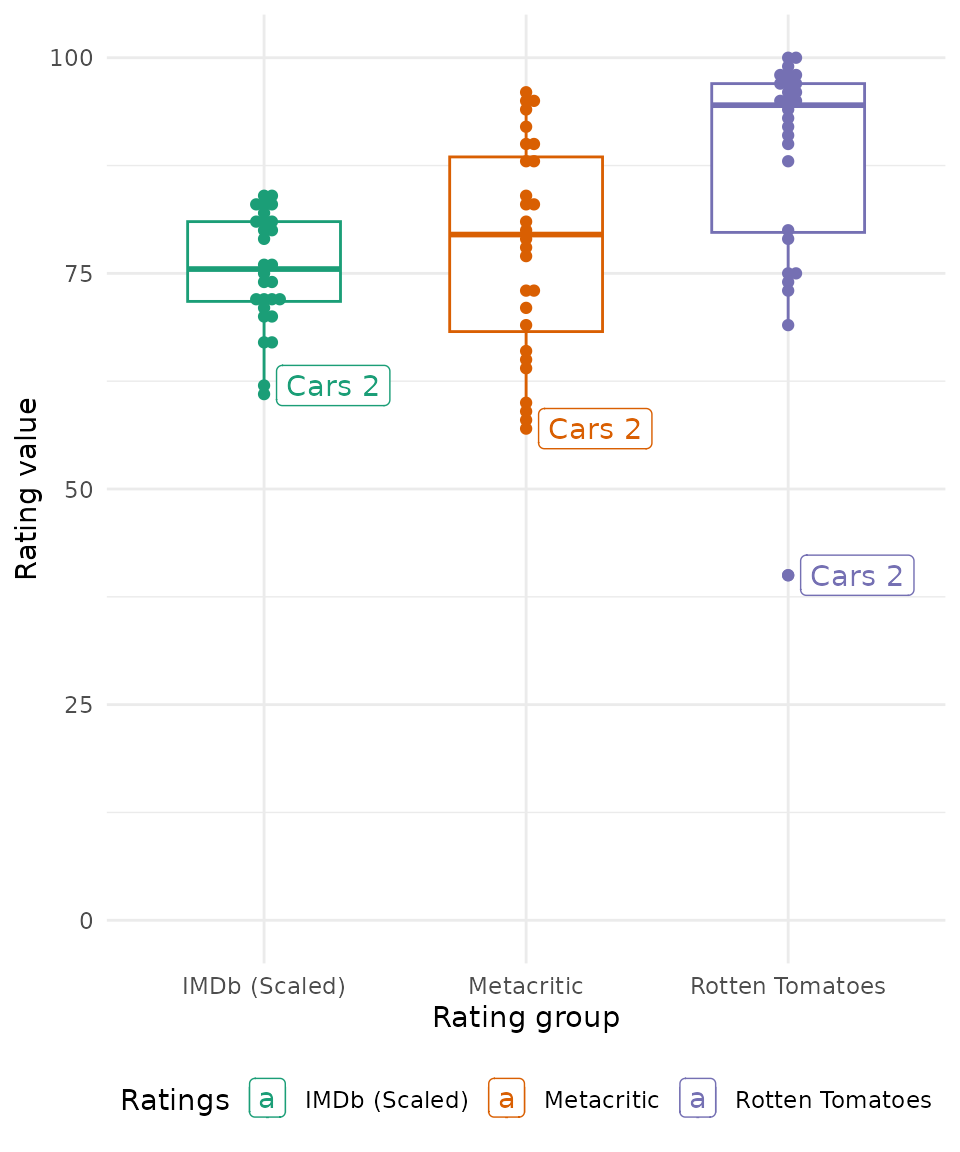
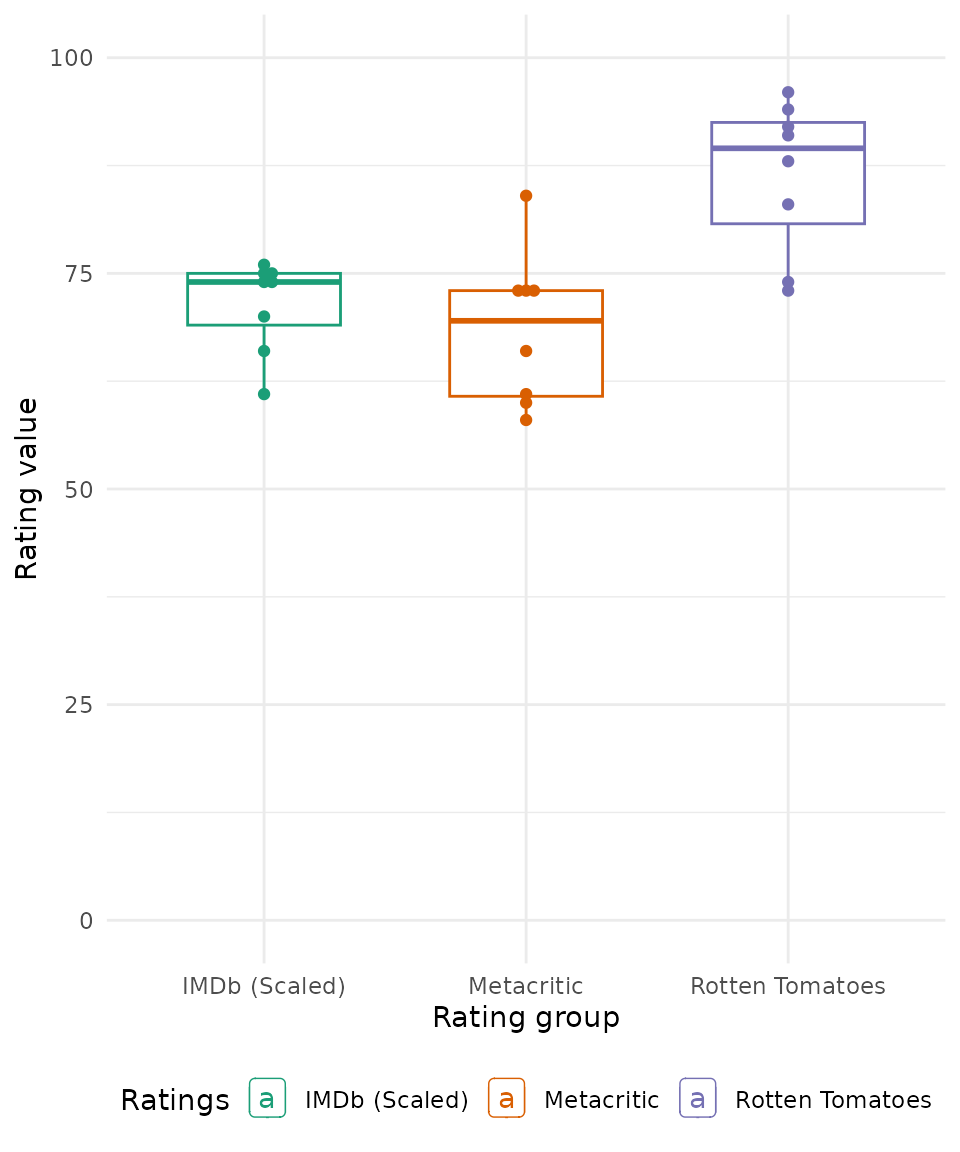
Deploying to gh-pages from @ erictleung/pixarfilms@0bd7c4084bb4fcffd38ed1bbc696253856edcd91 🚀

diff --git a/reference/public_response.html b/reference/public_response.html
@@ -1,5 +1,5 @@
 <!DOCTYPE html>
-<!-- Generated by pkgdown: do not edit by hand --><html lang="en-US"><head><meta http-equiv="Content-Type" content="text/html; charset=UTF-8"><meta charset="utf-8"><meta http-equiv="X-UA-Compatible" content="IE=edge"><meta name="viewport" content="width=device-width, initial-scale=1, shrink-to-fit=no"><title>Critical and public response — public_response • pixarfilms</title><script src="../deps/jquery-3.6.0/jquery-3.6.0.min.js"></script><meta name="viewport" content="width=device-width, initial-scale=1, shrink-to-fit=no"><link href="../deps/bootstrap-5.3.8/bootstrap.min.css" rel="stylesheet"><script src="../deps/bootstrap-5.3.8/bootstrap.bundle.min.js"></script><link href="../deps/font-awesome-6.5.2/css/all.min.css" rel="stylesheet"><link href="../deps/font-awesome-6.5.2/css/v4-shims.min.css" rel="stylesheet"><script src="../deps/headroom-0.11.0/headroom.min.js"></script><script src="../deps/headroom-0.11.0/jQuery.headroom.min.js"></script><script src="../deps/bootstrap-toc-1.0.1/bootstrap-toc.min.js"></script><script src="../deps/clipboard.js-2.0.11/clipboard.min.js"></script><script src="../deps/search-1.0.0/autocomplete.jquery.min.js"></script><script src="../deps/search-1.0.0/fuse.min.js"></script><script src="../deps/search-1.0.0/mark.min.js"></script><!-- pkgdown --><script src="../pkgdown.js"></script><meta property="og:title" content="Critical and public response — public_response"><meta name="description" content="A data set with scores of critical and public response."><meta property="og:description" content="A data set with scores of critical and public response."><meta property="og:image" content="https://erictleung.com/pixarfilms, https://github.com/erictleung/pixarfilms/logo.png"><!-- Global site tag (gtag.js) - Google Analytics --><script async src="https://www.googletagmanager.com/gtag/js?id=UA-66130577-1"></script><script>
+<!-- Generated by pkgdown: do not edit by hand --><html lang="en-US"><head><meta http-equiv="Content-Type" content="text/html; charset=UTF-8"><meta charset="utf-8"><meta http-equiv="X-UA-Compatible" content="IE=edge"><meta name="viewport" content="width=device-width, initial-scale=1, shrink-to-fit=no"><title>Critical and public response — public_response • pixarfilms</title><script src="../deps/jquery-3.6.0/jquery-3.6.0.min.js"></script><meta name="viewport" content="width=device-width, initial-scale=1, shrink-to-fit=no"><link href="../deps/bootstrap-5.3.8/bootstrap.min.css" rel="stylesheet"><script src="../deps/bootstrap-5.3.8/bootstrap.bundle.min.js"></script><link href="../deps/font-awesome-6.5.2/css/all.min.css" rel="stylesheet"><link href="../deps/font-awesome-6.5.2/css/v4-shims.min.css" rel="stylesheet"><script src="../deps/headroom-0.11.0/headroom.min.js"></script><script src="../deps/headroom-0.11.0/jQuery.headroom.min.js"></script><script src="../deps/bootstrap-toc-1.0.1/bootstrap-toc.min.js"></script><script src="../deps/clipboard.js-2.0.11/clipboard.min.js"></script><script src="../deps/search-1.0.0/autocomplete.jquery.min.js"></script><script src="../deps/search-1.0.0/fuse.min.js"></script><script src="../deps/search-1.0.0/mark.min.js"></script><!-- pkgdown --><script src="../pkgdown.js"></script><meta property="og:title" content="Critical and public response — public_response"><meta property="og:image" content="https://erictleung.com/pixarfilms, https://github.com/erictleung/pixarfilms/logo.png"><!-- Global site tag (gtag.js) - Google Analytics --><script async src="https://www.googletagmanager.com/gtag/js?id=UA-66130577-1"></script><script>
   window.dataLayer = window.dataLayer || [];
   function gtag(){dataLayer.push(arguments);}
   gtag('js', new Date());
@@ -47,17 +47,12 @@
     </div>
 
     <div class="ref-description section level2">
-    <p>A data set with scores of critical and public response.</p>
     </div>
 
-    <div class="section level2">
-    <h2 id="ref-usage">Usage<a class="anchor" aria-label="anchor" href="#ref-usage"></a></h2>
-    <div class="sourceCode"><pre class="sourceCode r"><code><span><span class="va">public_response</span></span></code></pre></div>
-    </div>
 
     <div class="section level2">
     <h2 id="format">Format<a class="anchor" aria-label="anchor" href="#format"></a></h2>
-    <p>A data frame with 23 rows and 5 variables:</p><dl><dt>film</dt>
+    <p>A data frame with 31 rows and 17 columns:</p><dl><dt>film</dt>
 <dd><p>name of film</p></dd>
 
 <dt>rotten_tomatoes_score</dt>
@@ -87,36 +82,44 @@ reviews; scored out of 100</p></dd>
 <dt>imdb_counts</dt>
 <dd><p>number of critics contributing to IMDb score</p></dd>
 
+<dt>rotten_tomatoes_score_top_critics</dt>
+<dd><p>score for only top critics from
+Rotten Tomatoes; scored out of 100</p></dd>
 
-</dl></div>
-    <div class="section level2">
-    <h2 id="source">Source<a class="anchor" aria-label="anchor" href="#source"></a></h2>
-    <p><a href="https://en.wikipedia.org/wiki/List_of_Pixar_films" class="external-link">https://en.wikipedia.org/wiki/List_of_Pixar_films</a></p>
+<dt>rotten_tomatoes_score_top_critics_votes</dt>
+<dd><p>number of top critics
+contributing to Rotten Tomatoes score</p></dd>
+
+<dt>rotten_tomatoes_popcorn_meter_score</dt>
+<dd><p>percentage of users who rated
+rotten_tomatoes_popcorn_meter_votesnumber of users contributing to
+Rotten Tomatoes'
+rotten_tomatoes_popcorn_meter_verifiedpercentage of users who made
+a verified movie ticket purchase rating this 3.5 stars or higher
+rotten_tomatoes_popcorn_meter_votesnumber of users contributing to
+Rotten Tomatoes' Popcorn Meter
+letterboxd_ratingscore from Letterboxd where scores are weighted
+average of reviews; scored out of 5
+letterboxd_countsnumber of users contributing to Letterboxd score
+letterboxd_fansnumber of users this film as one of their four
+favorites on Letterboxd</p></dd>
+
+
+</dl><p><a href="https://en.wikipedia.org/wiki/List_of_Pixar_films" class="external-link">https://en.wikipedia.org/wiki/List_of_Pixar_films</a>
+
+
+public_response
+
+
+A data set with scores of critical and public response.
+
+
+public_response
+
+datasets</p>
     </div>
 
-    <div class="section level2">
-    <h2 id="ref-examples">Examples<a class="anchor" aria-label="anchor" href="#ref-examples"></a></h2>
-    <div class="sourceCode"><pre class="sourceCode r"><code><span class="r-in"><span><span class="va">public_response</span></span></span>
-<span class="r-out co"><span class="r-pr">#&gt;</span> <span style="color: #949494;"># A tibble: 28 × 8</span></span>
-<span class="r-out co"><span class="r-pr">#&gt;</span>    film            rotten_tomatoes_score rotten_tomatoes_counts metacritic_score</span>
-<span class="r-out co"><span class="r-pr">#&gt;</span>    <span style="color: #949494; font-style: italic;">&lt;chr&gt;</span>                           <span style="color: #949494; font-style: italic;">&lt;dbl&gt;</span>                  <span style="color: #949494; font-style: italic;">&lt;dbl&gt;</span>            <span style="color: #949494; font-style: italic;">&lt;dbl&gt;</span></span>
-<span class="r-out co"><span class="r-pr">#&gt;</span> <span style="color: #BCBCBC;"> 1</span> Toy Story                         100                     96               95</span>
-<span class="r-out co"><span class="r-pr">#&gt;</span> <span style="color: #BCBCBC;"> 2</span> A Bug's Life                       92                     91               78</span>
-<span class="r-out co"><span class="r-pr">#&gt;</span> <span style="color: #BCBCBC;"> 3</span> Toy Story 2                       100                    172               88</span>
-<span class="r-out co"><span class="r-pr">#&gt;</span> <span style="color: #BCBCBC;"> 4</span> Monsters, Inc.                     96                    199               79</span>
-<span class="r-out co"><span class="r-pr">#&gt;</span> <span style="color: #BCBCBC;"> 5</span> Finding Nemo                       99                    270               90</span>
-<span class="r-out co"><span class="r-pr">#&gt;</span> <span style="color: #BCBCBC;"> 6</span> The Incredibles                    97                    250               90</span>
-<span class="r-out co"><span class="r-pr">#&gt;</span> <span style="color: #BCBCBC;"> 7</span> Cars                               75                    204               73</span>
-<span class="r-out co"><span class="r-pr">#&gt;</span> <span style="color: #BCBCBC;"> 8</span> Ratatouille                        96                    253               96</span>
-<span class="r-out co"><span class="r-pr">#&gt;</span> <span style="color: #BCBCBC;"> 9</span> WALL-E                             95                    261               95</span>
-<span class="r-out co"><span class="r-pr">#&gt;</span> <span style="color: #BCBCBC;">10</span> Up                                 98                    297               88</span>
-<span class="r-out co"><span class="r-pr">#&gt;</span> <span style="color: #949494;"># ℹ 18 more rows</span></span>
-<span class="r-out co"><span class="r-pr">#&gt;</span> <span style="color: #949494;"># ℹ 4 more variables: metacritic_counts &lt;dbl&gt;, cinema_score &lt;chr&gt;,</span></span>
-<span class="r-out co"><span class="r-pr">#&gt;</span> <span style="color: #949494;">#   imdb_score &lt;dbl&gt;, imdb_counts &lt;dbl&gt;</span></span>
-</code></pre></div>
-    </div>
-  </main><aside class="col-md-3"><nav id="toc" aria-label="Table of contents"><h2>On this page</h2>
-    </nav></aside></div>
+  </main></div>
 
 
     <footer><div class="pkgdown-footer-left">

diff --git a/articles/multidimensional_success_of_pixar_films.html b/articles/multidimensional_success_of_pixar_films.html
@@ -121,7 +121,7 @@ found <a href="https://thelittledataset.com/2015/06/30/the-multidimensional-succ
 <span>  <span class="fu"><a href="https://dplyr.tidyverse.org/reference/mutate-joins.html" class="external-link">left_join</a></span><span class="op">(</span><span class="va">academy</span><span class="op">)</span> <span class="co"># %&gt;% </span></span>
 <span><span class="co">#&gt; Joining with `by = join_by(film)`</span></span>
 <span><span class="co">#&gt; Joining with `by = join_by(film)`</span></span>
-<span><span class="co">#&gt; <span style="color: #949494;"># A tibble: 88 × 15</span></span></span>
+<span><span class="co">#&gt; <span style="color: #949494;"># A tibble: 88 × 24</span></span></span>
 <span><span class="co">#&gt;    number film     release_date run_time film_rating plot  rotten_tomatoes_score</span></span>
 <span><span class="co">#&gt;     <span style="color: #949494; font-style: italic;">&lt;int&gt;</span> <span style="color: #949494; font-style: italic;">&lt;chr&gt;</span>    <span style="color: #949494; font-style: italic;">&lt;date&gt;</span>          <span style="color: #949494; font-style: italic;">&lt;dbl&gt;</span> <span style="color: #949494; font-style: italic;">&lt;chr&gt;</span>       <span style="color: #949494; font-style: italic;">&lt;chr&gt;</span>                 <span style="color: #949494; font-style: italic;">&lt;dbl&gt;</span></span></span>
 <span><span class="co">#&gt; <span style="color: #BCBCBC;"> 1</span>      1 Toy Sto… 1995-11-22         81 G           <span style="color: #949494;">"</span>A c…                   100</span></span>
@@ -135,9 +135,12 @@ found <a href="https://thelittledataset.com/2015/06/30/the-multidimensional-succ
 <span><span class="co">#&gt; <span style="color: #BCBCBC;"> 9</span>      2 A Bug's… 1998-11-25         95 G           <span style="color: #949494;">"</span>A m…                    92</span></span>
 <span><span class="co">#&gt; <span style="color: #BCBCBC;">10</span>      3 Toy Sto… 1999-11-24         92 G           <span style="color: #949494;">"</span>Whe…                   100</span></span>
 <span><span class="co">#&gt; <span style="color: #949494;"># ℹ 78 more rows</span></span></span>
-<span><span class="co">#&gt; <span style="color: #949494;"># ℹ 8 more variables: rotten_tomatoes_counts &lt;dbl&gt;, metacritic_score &lt;dbl&gt;,</span></span></span>
+<span><span class="co">#&gt; <span style="color: #949494;"># ℹ 17 more variables: rotten_tomatoes_counts &lt;dbl&gt;, metacritic_score &lt;dbl&gt;,</span></span></span>
 <span><span class="co">#&gt; <span style="color: #949494;">#   metacritic_counts &lt;dbl&gt;, cinema_score &lt;chr&gt;, imdb_score &lt;dbl&gt;,</span></span></span>
-<span><span class="co">#&gt; <span style="color: #949494;">#   imdb_counts &lt;dbl&gt;, award_type &lt;chr&gt;, status &lt;chr&gt;</span></span></span>
+<span><span class="co">#&gt; <span style="color: #949494;">#   imdb_counts &lt;dbl&gt;, rotten_tomatoes_score_top_critics &lt;dbl&gt;,</span></span></span>
+<span><span class="co">#&gt; <span style="color: #949494;">#   rotten_tomatoes_score_top_critics_votes &lt;dbl&gt;,</span></span></span>
+<span><span class="co">#&gt; <span style="color: #949494;">#   rotten_tomatoes_popcorn_meter_score &lt;dbl&gt;,</span></span></span>
+<span><span class="co">#&gt; <span style="color: #949494;">#   rotten_tomatoes_popcorn_meter_votes &lt;dbl&gt;, …</span></span></span>
 <span>  <span class="co"># mutate(year = year(release_date)</span></span>
 <span>  <span class="co">#        # best = case_when(</span></span>
 <span>  <span class="co">#          </span></span>

diff --git a/articles/use_dm.html b/articles/use_dm.html
@@ -157,7 +157,7 @@ interconnected tables together.</p>
 <code class="sourceCode R"><span><span class="va">dm</span></span>
 <span><span class="co">#&gt; <span style="color: #FFAFFF;">──</span> <span style="color: #FFAFFF;">Metadata</span> <span style="color: #FFAFFF;">────────────────────────────────────────────────────────────────────</span></span></span>
 <span><span class="co">#&gt; Tables: `pixar_films`, `pixar_people`, `academy`, `box_office`, `genres`, `public_response`</span></span>
-<span><span class="co">#&gt; Columns: 28</span></span>
+<span><span class="co">#&gt; Columns: 37</span></span>
 <span><span class="co">#&gt; Primary keys: 5</span></span>
 <span><span class="co">#&gt; Foreign keys: 5</span></span></code></pre></div>
 <div class="sourceCode" id="cb4"><pre class="downlit sourceCode r">
@@ -167,11 +167,13 @@ interconnected tables together.</p>
 <span><span class="co">#&gt; <span style="color: #000000;">•</span> FK: academy$(`film`) -&gt; pixar_films$(`film`): surjective mapping (child: 1 to n -&gt; parent: 1)</span></span>
 <span><span class="co">#&gt; <span style="color: #000000;">•</span> FK: box_office$(`film`) -&gt; pixar_films$(`film`): bijective mapping (child: 1 -&gt; parent: 1)</span></span>
 <span><span class="co">#&gt; <span style="color: #000000;">•</span> FK: genres$(`film`) -&gt; pixar_films$(`film`): surjective mapping (child: 1 to n -&gt; parent: 1)</span></span>
-<span><span class="co">#&gt; <span style="color: #000000;">•</span> FK: public_response$(`film`) -&gt; pixar_films$(`film`): bijective mapping (child: 1 -&gt; parent: 1)</span></span></code></pre></div>
+<span><span class="co">#&gt; <span style="color: #BB0000;">•</span> FK: public_response$(`film`) -&gt; pixar_films$(`film`): Column (`film`) of table `public_response` not a subset of column (`film`) of table `pixar_films`.</span></span>
+<span><span class="co">#&gt; <span style="color: #BBBB00;">!</span> Not all FK constraints satisfied, call `dm_examine_constraints()` for details.</span></span></code></pre></div>
 <div class="sourceCode" id="cb5"><pre class="downlit sourceCode r">
 <code class="sourceCode R"><span><span class="va">dm</span> <span class="op"><a href="https://magrittr.tidyverse.org/reference/pipe.html" class="external-link">%&gt;%</a></span></span>
 <span>  <span class="fu"><a href="https://dm.cynkra.com/reference/dm_examine_constraints.html" class="external-link">dm_examine_constraints</a></span><span class="op">(</span><span class="op">)</span></span>
-<span><span class="co">#&gt; <span style="color: #00BBBB;">ℹ</span> All constraints satisfied.</span></span></code></pre></div>
+<span><span class="co">#&gt; <span style="color: #BBBB00;">!</span> Unsatisfied constraints:</span></span>
+<span><span class="co">#&gt; <span style="color: #BB0000;">•</span> Table `public_response`: foreign key `film` into table `pixar_films`: values of `public_response$film` not in `pixar_films$film`: Elio (1), Hoppers (1), Toy Story 5 (1)</span></span></code></pre></div>
 </div>
 <div class="section level2">
 <h2 id="system-information">System information<a class="anchor" aria-label="anchor" href="#system-information"></a>

diff --git a/articles/pixar_film_ratings.html b/articles/pixar_film_ratings.html
@@ -190,15 +190,15 @@ interclass correlation</a> among the different critic groups.</p>
 <span><span class="co">#&gt;    Model: twoway </span></span>
 <span><span class="co">#&gt;    Type : consistency </span></span>
 <span><span class="co">#&gt; </span></span>
-<span><span class="co">#&gt;    Subjects = 28 </span></span>
-<span><span class="co">#&gt;      Raters = 3 </span></span>
-<span><span class="co">#&gt;    ICC(C,1) = 0.449</span></span>
+<span><span class="co">#&gt;    Subjects = 8 </span></span>
+<span><span class="co">#&gt;      Raters = 11 </span></span>
+<span><span class="co">#&gt;    ICC(C,1) = 0.0971</span></span>
 <span><span class="co">#&gt; </span></span>
 <span><span class="co">#&gt;  F-Test, H0: r0 = 0 ; H1: r0 &gt; 0 </span></span>
-<span><span class="co">#&gt;    F(27,54) = 3.45 , p = 5.35e-05 </span></span>
+<span><span class="co">#&gt;     F(7,70) = 2.18 , p = 0.0461 </span></span>
 <span><span class="co">#&gt; </span></span>
 <span><span class="co">#&gt;  95%-Confidence Interval for ICC Population Values:</span></span>
-<span><span class="co">#&gt;   0.219 &lt; ICC &lt; 0.665</span></span></code></pre></div>
+<span><span class="co">#&gt;   -0.011 &lt; ICC &lt; 0.429</span></span></code></pre></div>
 <p><strong>Verdict</strong>: with a null hypothesis that all critic
 groups are not consistent, for the 28 Pixar films we have data for all
 critic groups, all groups are consistent in rating Pixar films (p &lt;

diff --git a/reference/public_response.md b/reference/public_response.md
@@ -1,16 +1,8 @@
 # Critical and public response
 
-A data set with scores of critical and public response.
-
-## Usage
-
-``` r
-public_response
-```
-
 ## Format
 
-A data frame with 23 rows and 5 variables:
+A data frame with 31 rows and 17 columns:
 
 - film:
 
@@ -48,28 +40,27 @@ A data frame with 23 rows and 5 variables:
 
   number of critics contributing to IMDb score
 
-## Source
+- rotten_tomatoes_score_top_critics:
 
-<https://en.wikipedia.org/wiki/List_of_Pixar_films>
+  score for only top critics from Rotten Tomatoes; scored out of 100
 
-## Examples
+- rotten_tomatoes_score_top_critics_votes:
 
-``` r
-public_response
-#> # A tibble: 28 × 8
-#>    film            rotten_tomatoes_score rotten_tomatoes_counts metacritic_score
-#>    <chr>                           <dbl>                  <dbl>            <dbl>
-#>  1 Toy Story                         100                     96               95
-#>  2 A Bug's Life                       92                     91               78
-#>  3 Toy Story 2                       100                    172               88
-#>  4 Monsters, Inc.                     96                    199               79
-#>  5 Finding Nemo                       99                    270               90
-#>  6 The Incredibles                    97                    250               90
-#>  7 Cars                               75                    204               73
-#>  8 Ratatouille                        96                    253               96
-#>  9 WALL-E                             95                    261               95
-#> 10 Up                                 98                    297               88
-#> # ℹ 18 more rows
-#> # ℹ 4 more variables: metacritic_counts <dbl>, cinema_score <chr>,
-#> #   imdb_score <dbl>, imdb_counts <dbl>
-```
+  number of top critics contributing to Rotten Tomatoes score
+
+- rotten_tomatoes_popcorn_meter_score:
+
+  percentage of users who rated
+  rotten_tomatoes_popcorn_meter_votesnumber of users contributing to
+  Rotten Tomatoes' rotten_tomatoes_popcorn_meter_verifiedpercentage of
+  users who made a verified movie ticket purchase rating this 3.5 stars
+  or higher rotten_tomatoes_popcorn_meter_votesnumber of users
+  contributing to Rotten Tomatoes' Popcorn Meter letterboxd_ratingscore
+  from Letterboxd where scores are weighted average of reviews; scored
+  out of 5 letterboxd_countsnumber of users contributing to Letterboxd
+  score letterboxd_fansnumber of users this film as one of their four
+  favorites on Letterboxd
+
+<https://en.wikipedia.org/wiki/List_of_Pixar_films> public_response A
+data set with scores of critical and public response. public_response
+datasets

diff --git a/articles/use_dm.md b/articles/use_dm.md
@@ -79,7 +79,7 @@ dm <-
 dm
 #> ── Metadata ────────────────────────────────────────────────────────────────────
 #> Tables: `pixar_films`, `pixar_people`, `academy`, `box_office`, `genres`, `public_response`
-#> Columns: 28
+#> Columns: 37
 #> Primary keys: 5
 #> Foreign keys: 5
 ```
@@ -92,14 +92,16 @@ dm %>%
 #> • FK: academy$(`film`) -> pixar_films$(`film`): surjective mapping (child: 1 to n -> parent: 1)
 #> • FK: box_office$(`film`) -> pixar_films$(`film`): bijective mapping (child: 1 -> parent: 1)
 #> • FK: genres$(`film`) -> pixar_films$(`film`): surjective mapping (child: 1 to n -> parent: 1)
-#> • FK: public_response$(`film`) -> pixar_films$(`film`): bijective mapping (child: 1 -> parent: 1)
+#> • FK: public_response$(`film`) -> pixar_films$(`film`): Column (`film`) of table `public_response` not a subset of column (`film`) of table `pixar_films`.
+#> ! Not all FK constraints satisfied, call `dm_examine_constraints()` for details.
 ```
 
 ``` r
 
 dm %>%
   dm_examine_constraints()
-#> ℹ All constraints satisfied.
+#> ! Unsatisfied constraints:
+#> • Table `public_response`: foreign key `film` into table `pixar_films`: values of `public_response$film` not in `pixar_films$film`: Elio (1), Hoppers (1), Toy Story 5 (1)
 ```
 
 ## System information

diff --git a/articles/multidimensional_success_of_pixar_films.md b/articles/multidimensional_success_of_pixar_films.md
@@ -41,7 +41,7 @@ pixar_films %>%
   left_join(academy) # %>% 
 #> Joining with `by = join_by(film)`
 #> Joining with `by = join_by(film)`
-#> # A tibble: 88 × 15
+#> # A tibble: 88 × 24
 #>    number film     release_date run_time film_rating plot  rotten_tomatoes_score
 #>     <int> <chr>    <date>          <dbl> <chr>       <chr>                 <dbl>
 #>  1      1 Toy Sto… 1995-11-22         81 G           "A c…                   100
@@ -55,9 +55,12 @@ pixar_films %>%
 #>  9      2 A Bug's… 1998-11-25         95 G           "A m…                    92
 #> 10      3 Toy Sto… 1999-11-24         92 G           "Whe…                   100
 #> # ℹ 78 more rows
-#> # ℹ 8 more variables: rotten_tomatoes_counts <dbl>, metacritic_score <dbl>,
+#> # ℹ 17 more variables: rotten_tomatoes_counts <dbl>, metacritic_score <dbl>,
 #> #   metacritic_counts <dbl>, cinema_score <chr>, imdb_score <dbl>,
-#> #   imdb_counts <dbl>, award_type <chr>, status <chr>
+#> #   imdb_counts <dbl>, rotten_tomatoes_score_top_critics <dbl>,
+#> #   rotten_tomatoes_score_top_critics_votes <dbl>,
+#> #   rotten_tomatoes_popcorn_meter_score <dbl>,
+#> #   rotten_tomatoes_popcorn_meter_votes <dbl>, …
   # mutate(year = year(release_date)
   #        # best = case_when(
   #          

diff --git a/articles/pixar_film_ratings.md b/articles/pixar_film_ratings.md
@@ -121,15 +121,15 @@ public_response %>%
 #>    Model: twoway 
 #>    Type : consistency 
 #> 
-#>    Subjects = 28 
-#>      Raters = 3 
-#>    ICC(C,1) = 0.449
+#>    Subjects = 8 
+#>      Raters = 11 
+#>    ICC(C,1) = 0.0971
 #> 
 #>  F-Test, H0: r0 = 0 ; H1: r0 > 0 
-#>    F(27,54) = 3.45 , p = 5.35e-05 
+#>     F(7,70) = 2.18 , p = 0.0461 
 #> 
 #>  95%-Confidence Interval for ICC Population Values:
-#>   0.219 < ICC < 0.665
+#>   -0.011 < ICC < 0.429
 ```
 
 **Verdict**: with a null hypothesis that all critic groups are not
